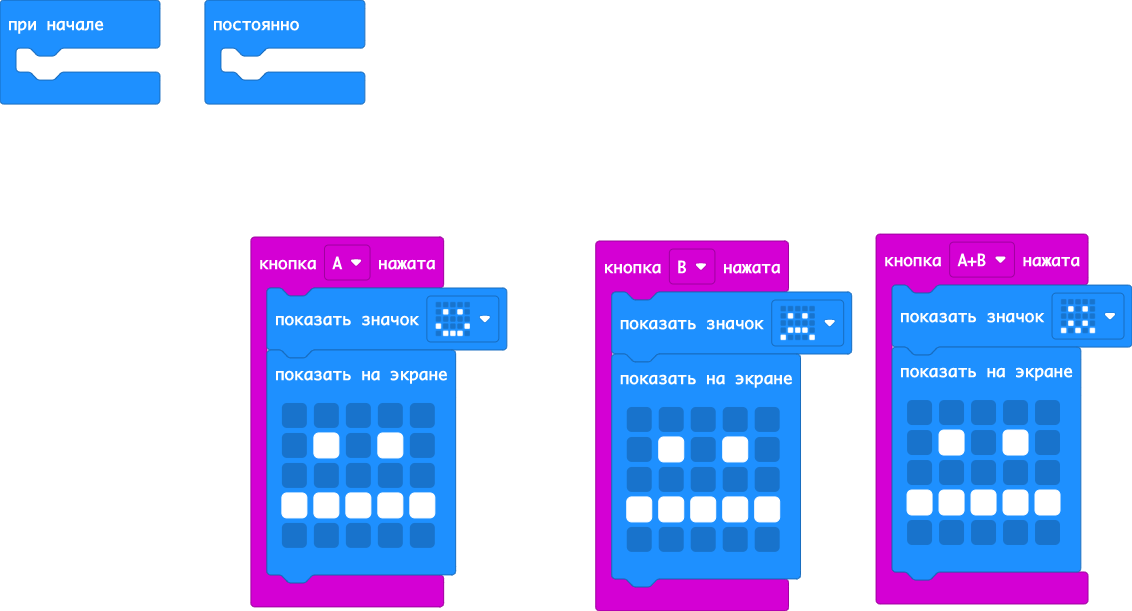
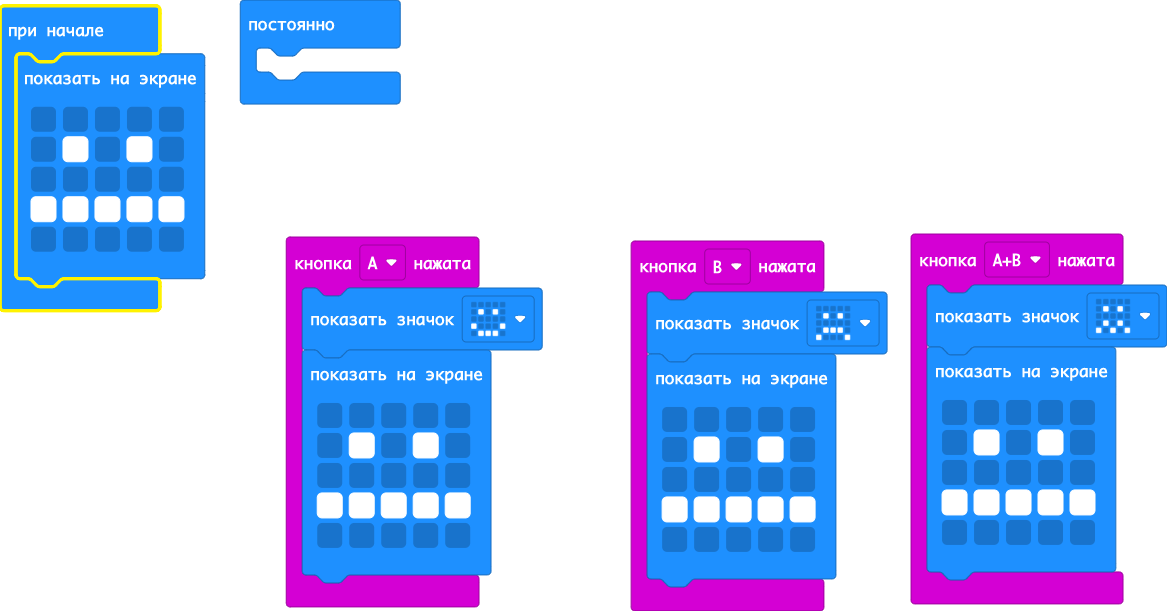
Обновить main.blocks, main.ts

diff --git a/main.ts b/main.ts
@@ -28,6 +28,13 @@ input.onButtonPressed(Button.B, function () {
         . . . . .
         `)
 })
+basic.showLeds(`
+    . . . . .
+    . # . # .
+    . . . . .
+    # # # # #
+    . . . . .
+    `)
 basic.forever(function () {
 	
 })
